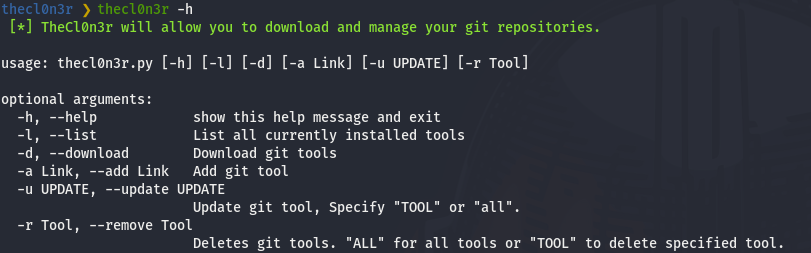
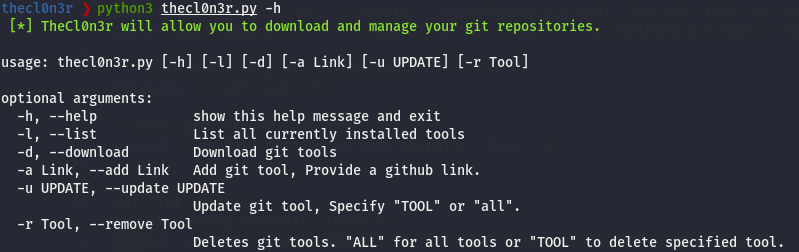
Updated screenshot
Updated screenshot

diff --git a/thecl0n3r.py b/thecl0n3r.py
@@ -22,7 +22,7 @@ def prCyan(skk): print("\033[96m {}\033[00m" .format(skk))
 parser = argparse.ArgumentParser(description=prGreen("[*] TheCl0n3r will allow you to download and manage your git repositories.\n"))
 parser.add_argument('-l', '--list', help='List all currently installed tools', action='store_true')
 parser.add_argument('-d', '--download', help='Download git tools', action='store_true')
-parser.add_argument('-a', '--add', metavar='Link', help='Add git tool', type=str)
+parser.add_argument('-a', '--add', metavar='Link', help='Add git tool, Provide a github link.', type=str)
 parser.add_argument('-u', '--update', help='Update git tool, Specify "TOOL" or "all".', type=str)
 parser.add_argument('-r', '--remove', metavar='Tool', help='Deletes git tools. "ALL" for all tools or "TOOL" to delete specified tool.', type=str)
 
